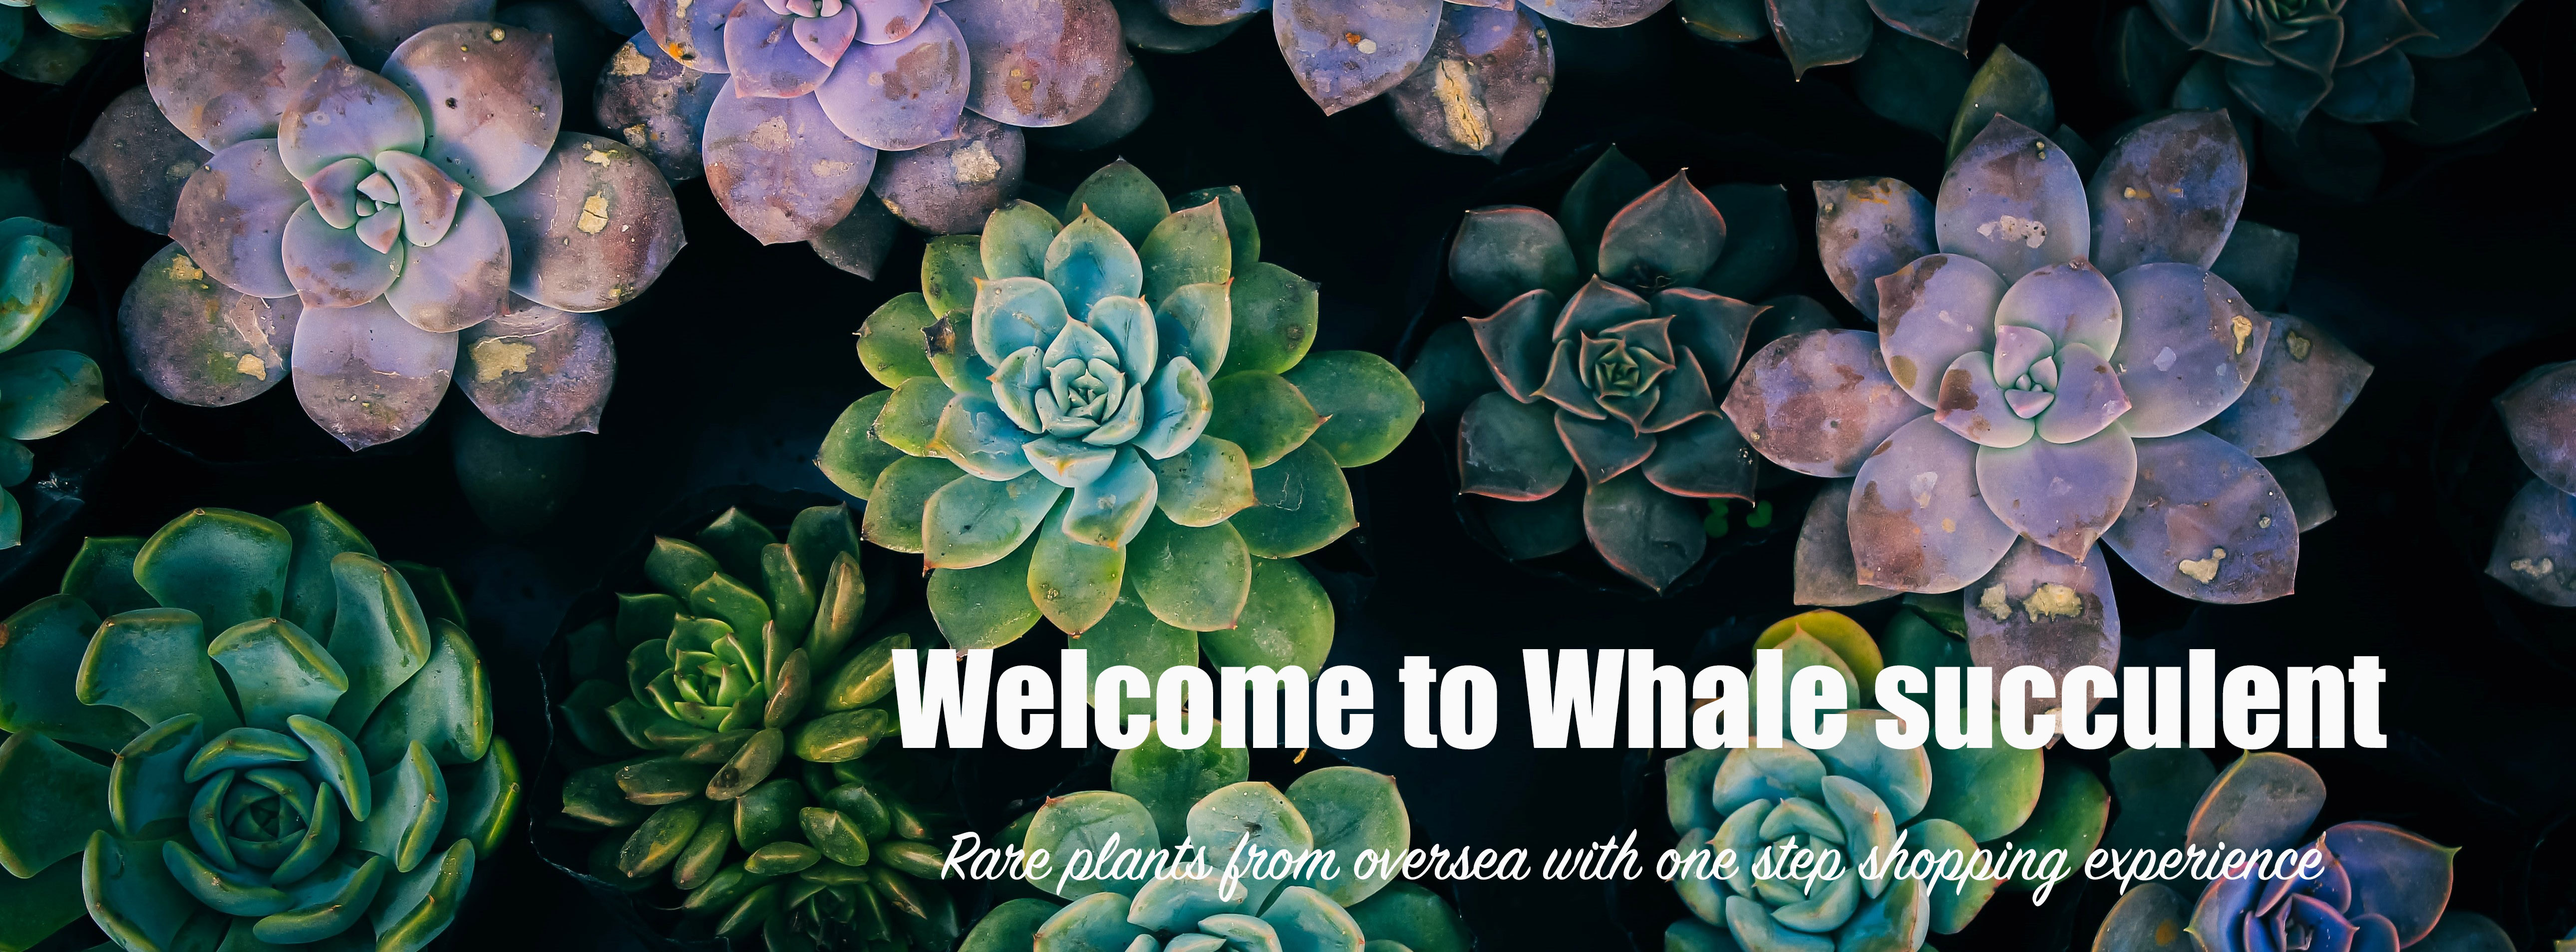
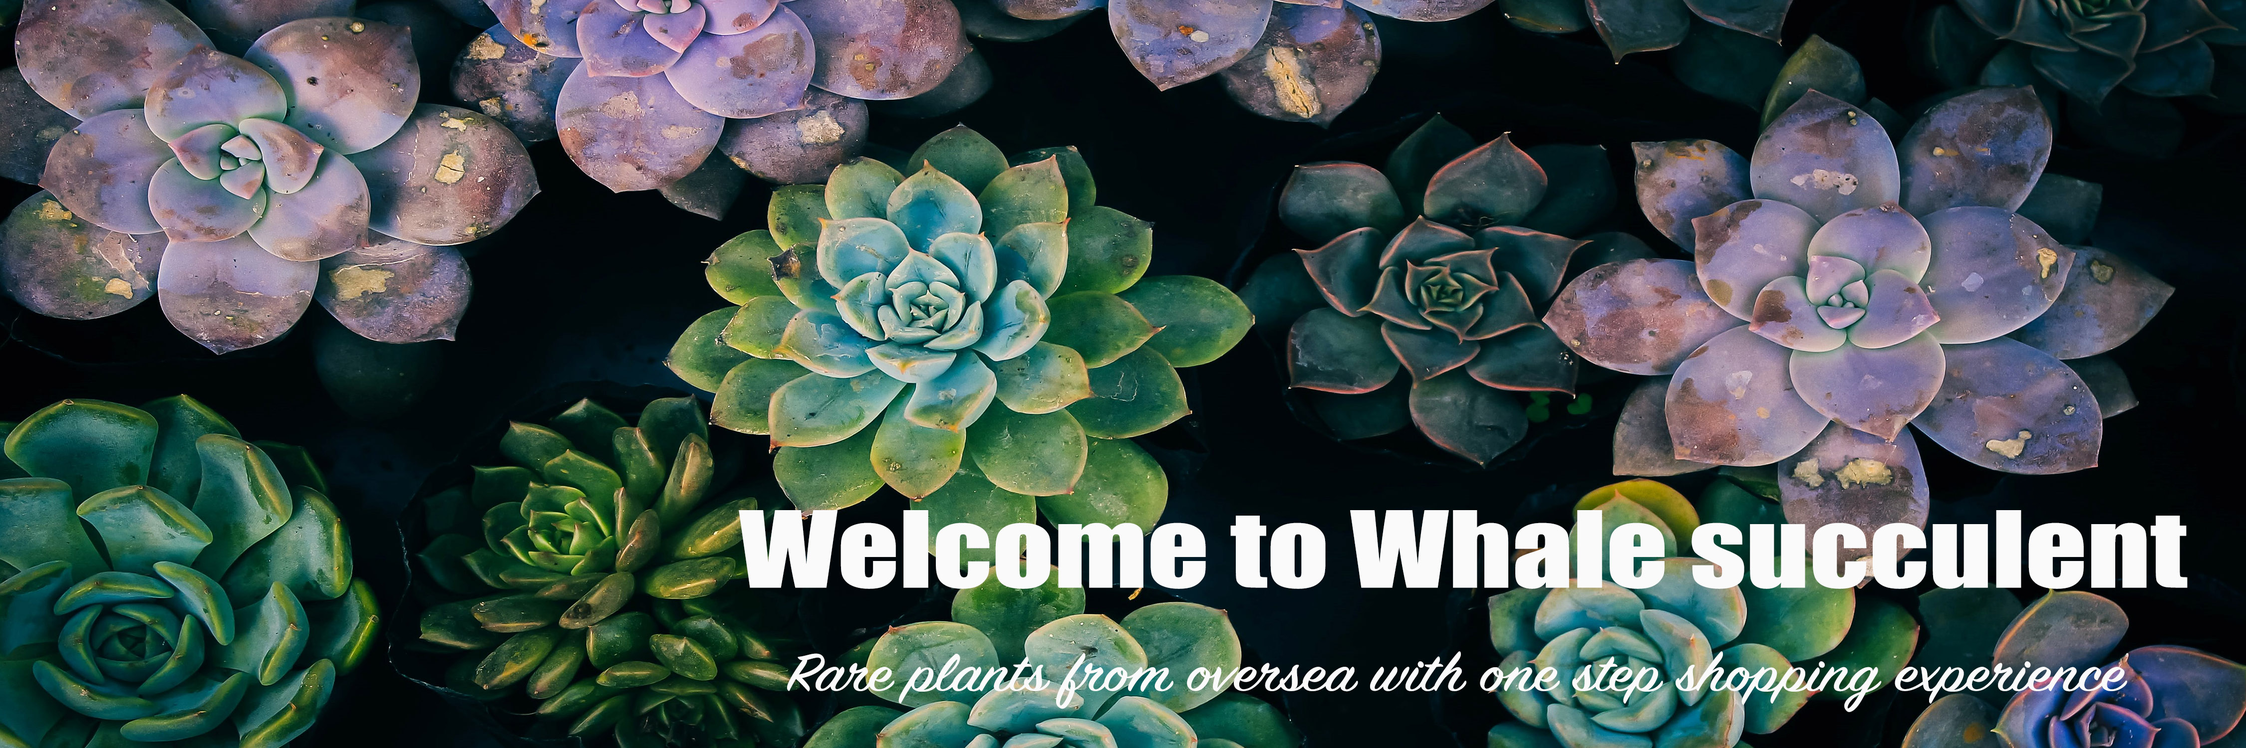
fixed picture size

diff --git a/src/pages/HomePage/Carousel.js b/src/pages/HomePage/Carousel.js
@@ -8,10 +8,11 @@ import "swiper/css";
 import "swiper/css/navigation";
 import "swiper/css/pagination";
 import "swiper/css/autoplay";
-import slidesrc from "assets/images/Slide.png";
-import slidesrc2 from "assets/images/Slide2.jpg";
-import slidesrc3 from "assets/images/1.jpg";
-import slidesrc4 from "assets/images/2.jpg";
+
+import slidesrc2 from "assets/images/3.jpg";
+import slidesrc3 from "assets/images/2.jpg";
+import slidesrc4 from "assets/images/1.jpg";
+import slidesrc5 from "assets/images/4.jpg";
 
 
 // import required modules
@@ -25,7 +26,7 @@ export default function Carousel() {
         delay: 4000,
       }}>
         <SwiperSlide style={{ overflow: "visible" }}>
-          <img src={slidesrc4} alt="slid" height="580px" style={{ filter: "opacity(60%)" }} />
+          <img src={slidesrc4} alt="slid" height="580px" style={{ filter: "opacity(70%)" }} />
           <Box className="swiper-caption" sx={{ position: "absolute", top: "100%", left: "100%", marginTop: {xs: "-75px", md: "-100px", lg: "0px" }, marginLeft: {xs: "-150px", md: "-100px", lg: "-50px" }, width: {xs: "300px", md: "200px", lg: "1000px" }, height: {xs: "300px", md: "200px", lg: "1000px" }, zIndex: 50 }} >
             <Typography sx={{ color: "black",mb: {xs:5, md:2}, fontSize: {xs:"2rem",md: "3rem",lg:"4em"}, fontFamily:"Alumni Sans Inline One", fontStyle: "italic"}} >Welcome to <span>Whale Succulent</span></Typography>
             <Typography sx={{color: "black" ,fontSize: {xs: "1rem", md: "1.5rem",lg:"2em"}}}>
@@ -33,16 +34,16 @@ export default function Carousel() {
             </Typography>
           </Box>
         </SwiperSlide>
-        <SwiperSlide>
-          <img src={slidesrc} alt="slid" height="580px" style={{ filter: "blur(2px)" }} />
+   
+        <SwiperSlide style={{ filter: "opacity(70%)" }}>
+          <img src={slidesrc2} alt="slid" height="580px" />
         </SwiperSlide>
-        <SwiperSlide>
-          <img src={slidesrc2} alt="slid" height="580px" style={{ filter: "blur(2px)" }}/>
+        <SwiperSlide style={{ filter: "opacity(70%)" }}>
+          <img src={slidesrc3} alt="slid" height="580px" />
         </SwiperSlide>
-        <SwiperSlide>
-          <img src={slidesrc3} alt="slid" height="580px" style={{ filter: "blur(2px)" }}/>
+        <SwiperSlide style={{ filter: "opacity(70%)" }}>
+          <img src={slidesrc5} alt="slid" height="580px" />
         </SwiperSlide>
-
 
       </Swiper>
     </>
